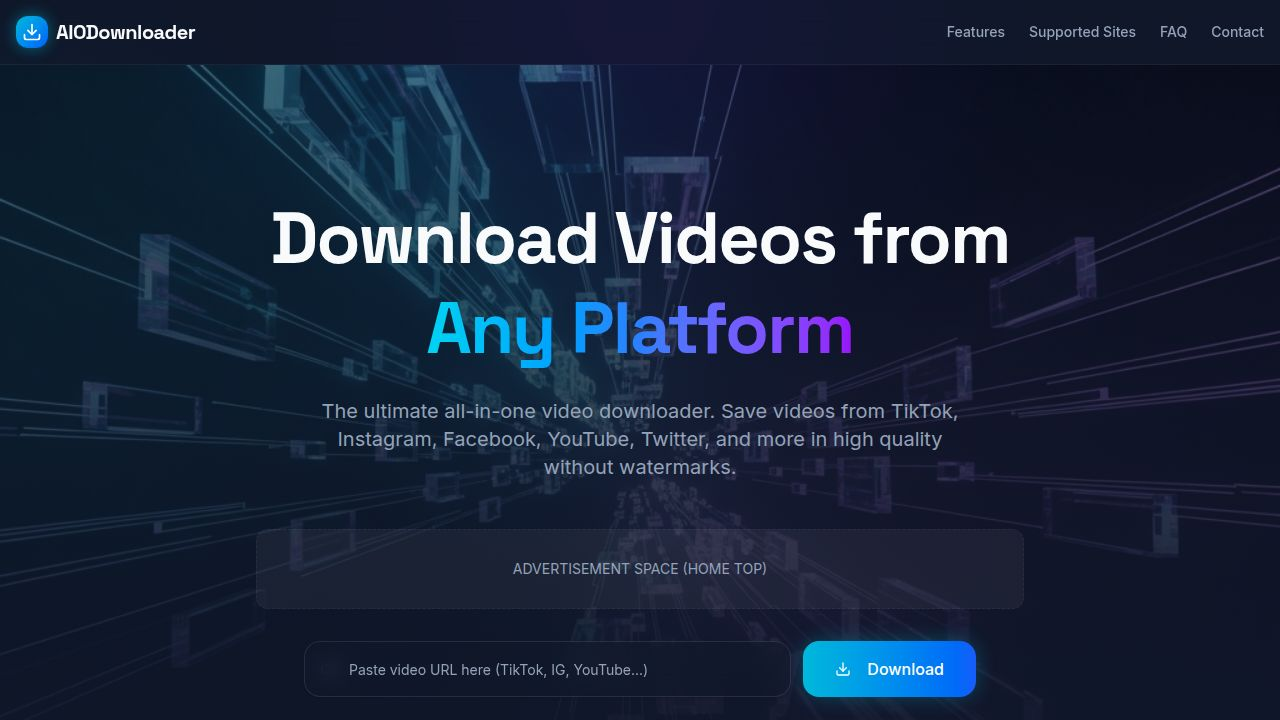
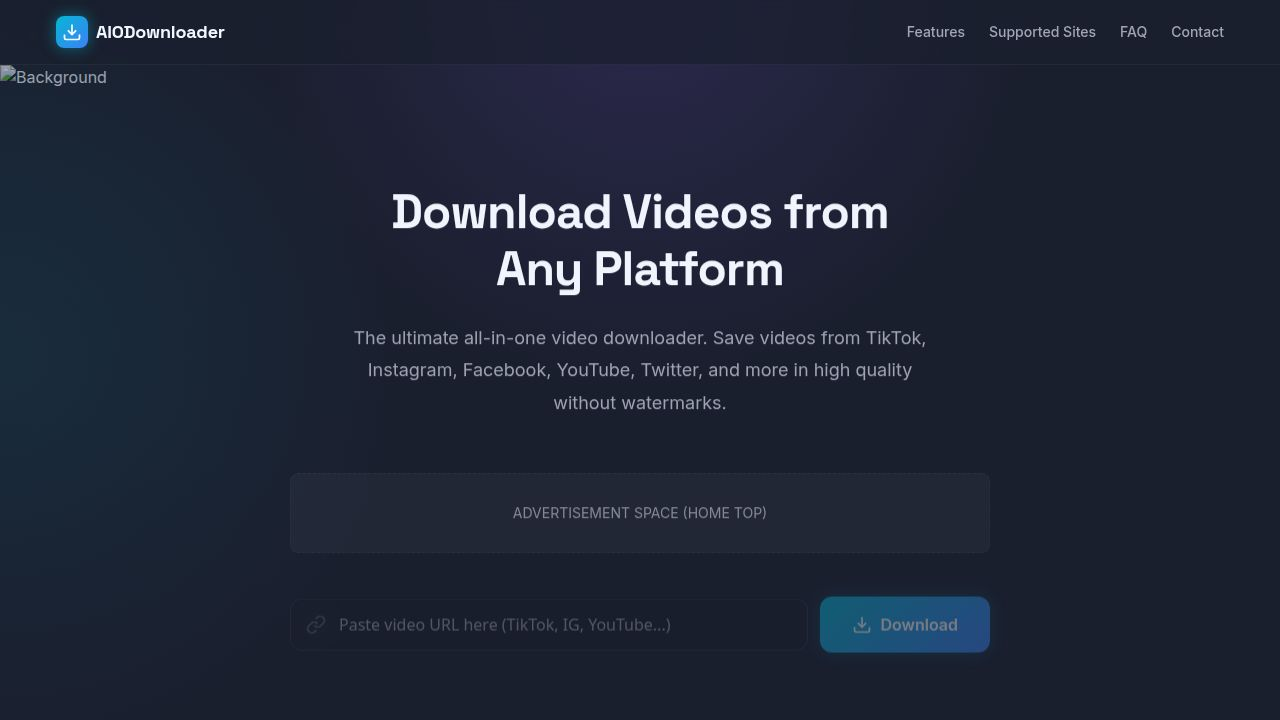
Fix hero background image not displaying correctly
Update image import in home.tsx to use new URL() for reliable asset resolution.

Replit-Commit-Author: Agent
Replit-Commit-Session-Id: 71fd9908-ea63-4f69-88a8-6fa4ff61e82b
Replit-Commit-Checkpoint-Type: full_checkpoint
Replit-Commit-Event-Id: e7f31806-dd92-470d-95b5-f24cfc57c444
Replit-Commit-Screenshot-Url: https://storage.googleapis.com/screenshot-production-us-central1/474b750e-191e-455a-9262-a1ffa9379c97/71fd9908-ea63-4f69-88a8-6fa4ff61e82b/Q9I6EkZ
Replit-Helium-Checkpoint-Created: true

diff --git a/client/src/pages/home.tsx b/client/src/pages/home.tsx
@@ -4,7 +4,8 @@ import { motion } from "framer-motion";
 import { Download, Zap, Shield, Globe, Video, Music, Image as ImageIcon, FileVideo } from "lucide-react";
 import { Icons } from "@/components/icons";
 import { Link, useLocation } from "wouter";
-import generatedImage from '@assets/generated_images/dark_abstract_cybernetic_background_with_glowing_lines.png';
+
+const generatedImage = new URL('../../attached_assets/generated_images/dark_abstract_cybernetic_background_with_glowing_lines.png', import.meta.url).href;
 
 export default function Home() {
   const [location, setLocation] = useLocation();
